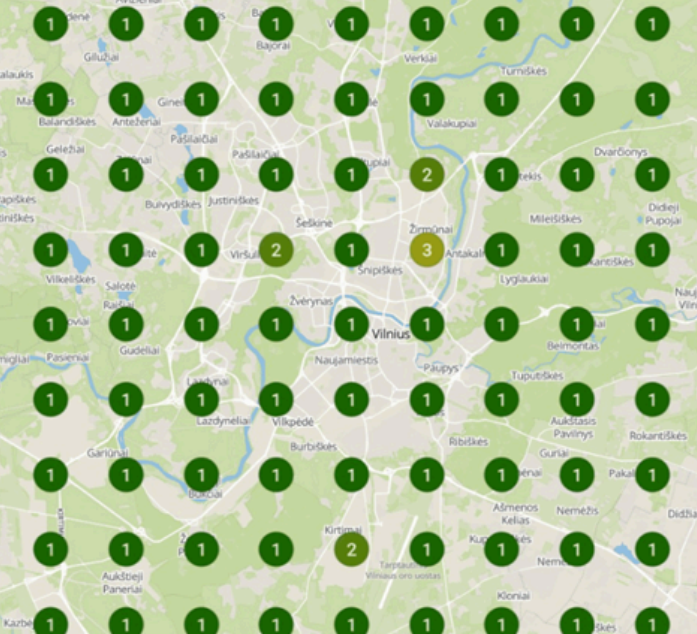
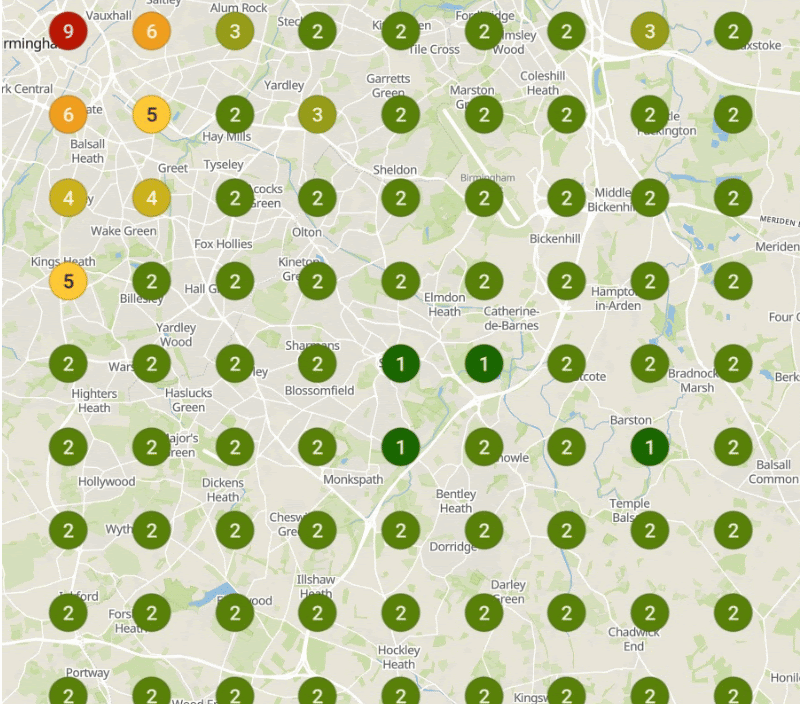
feat: update before/after geo-grid images with correct dimensions

diff --git a/src/app/components/Results.tsx b/src/app/components/Results.tsx
@@ -51,7 +51,7 @@ export default function Results() {
         </div>
 
         {/* Geo-grid Before / After */}
-        <div className="grid grid-cols-1 md:grid-cols-2 gap-10 mb-16 max-w-3xl mx-auto">
+        <div className="grid grid-cols-1 md:grid-cols-2 gap-10 mb-16 max-w-3xl mx-auto items-start">
           <div className="glass-card overflow-hidden rounded-2xl border border-white/10">
             <div className="bg-[#0D1117] py-4 text-center border-b border-white/10">
               <span className="text-white font-extrabold text-xl tracking-wide">BEFORE <span className="text-red-400">(RANK #21)</span></span>
@@ -60,9 +60,10 @@ export default function Results() {
             <Image
               src="/before.png"
               alt="Geo-grid before — Rank #21"
-              width={702}
-              height={634}
-              className="w-full h-auto"
+              width={799}
+              height={709}
+              unoptimized
+              className="w-full h-auto block"
             />
           </div>
           <div className="glass-card overflow-hidden rounded-2xl border border-[#00E676]/30">
@@ -73,9 +74,10 @@ export default function Results() {
             <Image
               src="/after.png"
               alt="Geo-grid after — Rank Top 3"
-              width={697}
-              height={634}
-              className="w-full h-auto"
+              width={800}
+              height={704}
+              unoptimized
+              className="w-full h-auto block"
             />
           </div>
         </div>
